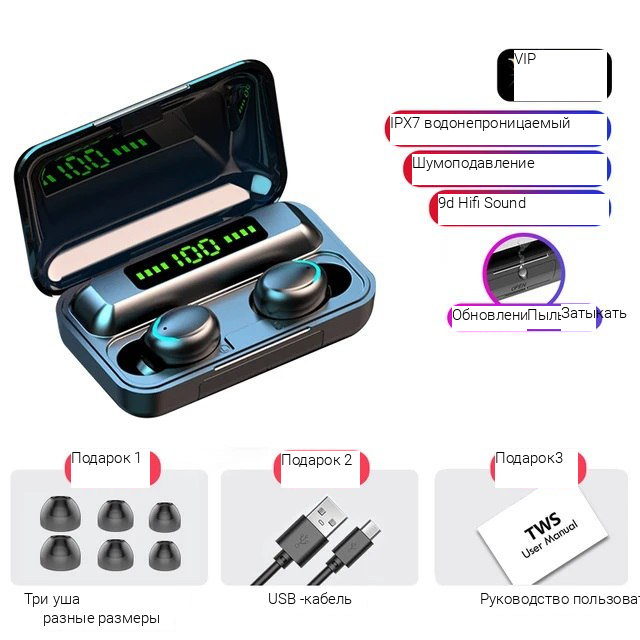
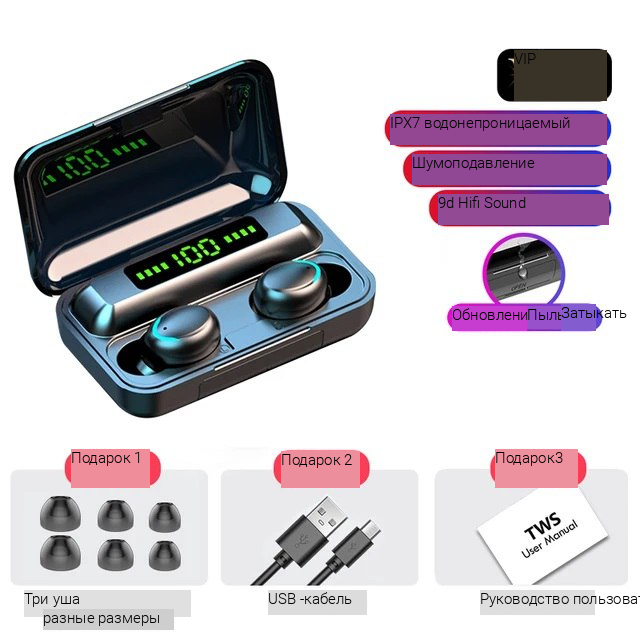
second solution

diff --git a/main.py b/main.py
@@ -1,78 +1,131 @@
+# import cv2
+# import numpy as np
+# from easyocr import Reader
+# from googletrans import Translator
+# from PIL import Image, ImageDraw, ImageFont
+
+# # распознавание и перевод текста
+# translator = Translator()
+# image_file = 'test3.jpg'
+# image = Image.open(image_file)
+# reader = Reader(['en'])
+
+# # распознание
+# results = reader.readtext(image_file, text_threshold=0.8)
+
+# # Создаем объект для рисования
+# draw = ImageDraw.Draw(image)
+
+# # Указываем новый текст и шрифт
+# font_path = '/usr/share/fonts/Roboto/Roboto-Light.ttf'
+# font_size = 15
+# font = ImageFont.truetype(font_path, font_size)
+
+
+# def get_background_color(image, bbox):
+#     # Преобразуем изображение в массив NumPy для обработки
+#     img_np = np.array(image)
+
+#     # Получаем координаты
+#     (top_left, top_right, bottom_right, bottom_left) = bbox
+#     top_left = tuple(map(int, top_left))
+#     bottom_right = tuple(map(int, bottom_right))
+
+#     # Извлекаем область фона
+#     background_area = img_np[top_left[1]                             :bottom_right[1], top_left[0]:bottom_right[0]]
+
+#     # Возвращаем средний цвет области
+#     return tuple(np.mean(background_area, axis=(0, 1)).astype(int))
+
+
+# # Заменяем текст
+# for (bbox, text, prob) in results:
+#     if prob > 0.5:  # Убедимся, что уверены в распознавании текста
+
+#         translate_text = translator.translate(text, src='en', dest='ru').text
+
+#         (top_left, top_right, bottom_right, bottom_left) = bbox
+#         top_left = tuple(map(int, top_left))
+#         bottom_right = tuple(map(int, bottom_right))
+#         back_color = get_background_color(image, bbox)
+
+#         # Проверка координат
+#         if bottom_right[1] >= top_left[1]:
+#             # Закрашиваем старый текст
+#             draw.rectangle([top_left, bottom_right], fill=back_color)
+
+#             # Добавляем новый текст
+#             draw.text((top_left[0], top_left[1]),
+#                       translate_text, fill="black", font=font)
+#         else:
+#             print(f"Неверные координаты: {top_left}, {bottom_right}")
+
+
+# # Сохраняем измененное изображение
+# output_path = 'output_image.png'
+# image.save(output_path)
+
+# print(f"Изображение сохранено как {output_path}")
+
+
+# test implaning
 import cv2
 import numpy as np
 from easyocr import Reader
 from googletrans import Translator
 from PIL import Image, ImageDraw, ImageFont
 
-# распознавание и перевод текста
-translator = Translator()
+# Загружаем изображение
 image_file = 'test3.jpg'
-image = Image.open(image_file)
+image = cv2.imread(image_file)
+
+translator = Translator()
+
+# Инициализируем распознаватель текста
 reader = Reader(['en'])
 
-# распознание
-results = reader.readtext(image_file, text_threshold=0.8)
+# Распознаем текст на изображении
+results = reader.readtext(image_file)
 
-# Создаем объект для рисования
-draw = ImageDraw.Draw(image)
+# Создаем маску для инпейнтинга
+mask = np.zeros(image.shape[:2], dtype=np.uint8)
 
-# Указываем новый текст и шрифт
+# Заполняем маску областями текста и собираем координаты для вставки нового текста
+text_boxes = []
+for (bbox, text, prob) in results:
+    if prob > 0.5:  # Уверенность распознавания
+        points = np.array(bbox, dtype=np.int32)
+        cv2.fillPoly(mask, [points], 255)
+
+        text_boxes.append(
+            (bbox, translator.translate(text, src='en', dest='ru').text))
+
+# Применяем инпейтинг для удаления текста
+result = cv2.inpaint(image, mask, inpaintRadius=3, flags=cv2.INPAINT_TELEA)
+
+# Преобразуем результат в PIL формат для работы со шрифтами
+result_pil = Image.fromarray(cv2.cvtColor(result, cv2.COLOR_BGR2RGB))
+draw = ImageDraw.Draw(result_pil)
+
+# Устанавливаем путь к шрифту и размер шрифта
+# Укажите путь к вашему шрифту
 font_path = '/usr/share/fonts/Roboto/Roboto-Light.ttf'
-font_size = 15
+font_size = 13  # Укажите нужный размер шрифта
 font = ImageFont.truetype(font_path, font_size)
 
-# Заменяем текст
-for (bbox, text, prob) in results:
-    if prob > 0.5:  # Убедимся, что уверены в распознавании текста
+# Вставляем новый текст на место удаленного
+for (bbox, text) in text_boxes:
+    # Вычисляем координаты для вставки текста
+    top_left = tuple(np.min(bbox, axis=0).astype(int))
 
-        translate_text = translator.translate(text, src='en', dest='ru').text
+    # Вставляем текст на изображение
+    draw.text(top_left, text, font=font, fill=(0, 0, 0))
 
-        (top_left, top_right, bottom_right, bottom_left) = bbox
-        top_left = tuple(map(int, top_left))
-        bottom_right = tuple(map(int, bottom_right))
+# Преобразуем обратно в формат OpenCV
+result_cv2 = cv2.cvtColor(np.array(result_pil), cv2.COLOR_RGB2BGR)
 
-        # Проверка координат
-        if bottom_right[1] >= top_left[1]:
-            # Закрашиваем старый текст
-            draw.rectangle([top_left, bottom_right], fill="white")
-
-            # Добавляем новый текст
-            draw.text((top_left[0], top_left[1]),
-                      translate_text, fill="black", font=font)
-        else:
-            print(f"Неверные координаты: {top_left}, {bottom_right}")
-
-
-# Сохраняем измененное изображение
-output_path = 'output_image.png'
-image.save(output_path)
+# Сохраняем результат
+output_path = 'output_image_with_text.png'
+cv2.imwrite(output_path, result_cv2)
 
 print(f"Изображение сохранено как {output_path}")
-
-# image = cv2.imread(image_file)
-
-# strk = []
-
-# result = Reader(['en']).readtext(image_file, detail=0,
-#                                  paragraph=True, text_threshold=0.8)
-# for i in result:
-#     trans = translator.translate(i, src='en', dest='ru').text
-#     strk.append(trans)
-# print(strk)
-
-# рамки вокруг распознанного текста
-
-# result = Reader(['en']).readtext(image_file, text_threshold=0.8)
-# print(result)
-
-# for (coord, text, prob) in result:
-#     # Рисуем ограничивающий прямоугольник
-#     (topleft, topright, bottomright, bottomleft) = coord
-#     tx, ty = (int(topleft[0]), int(topleft[1]))
-#     bx, by = (int(bottomright[0]), int(bottomright[1]))
-#     cv2.rectangle(image, (tx, ty), (bx, by), (255, 0, 0), 2)
-
-# # Сохраняем обработанное изображение
-# cv2.imwrite('result.jpg', image)
-
-# print(text)

diff --git a/README.md b/README.md
@@ -1,1 +1,3 @@
 # translate_text_on_image
+
+### tThis code translates the code in the image from English to Russian. It is planned to add another languages in the future.
